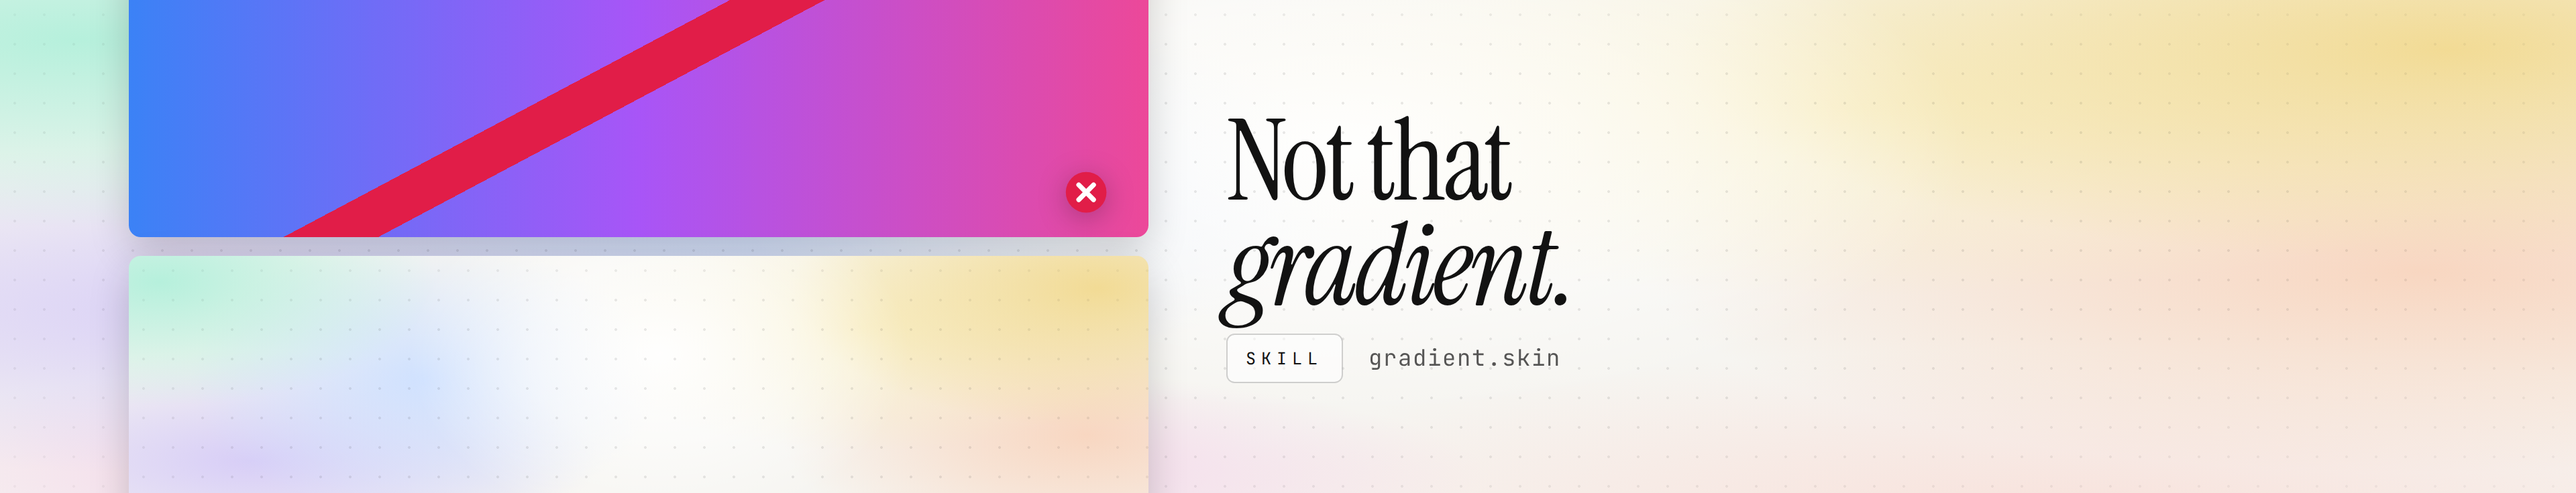
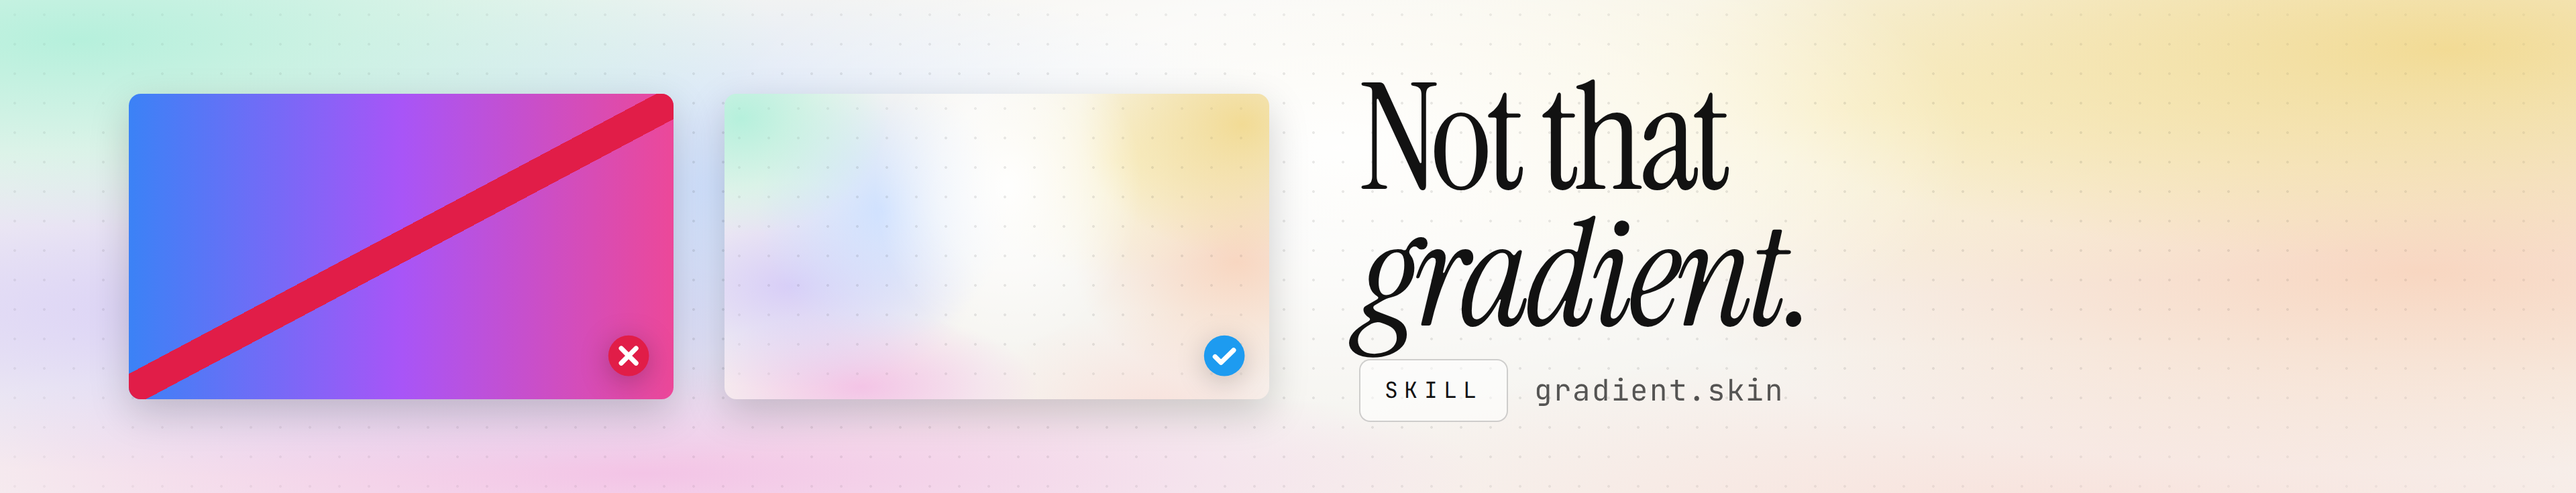
Article cover sized for the X editor crop (1920x768)
Claude-Session: https://claude.ai/code/session_01Pj2DqLmp4zxdSxdQUmTHv8

diff --git a/launch/article.md b/launch/article.md
@@ -1,6 +1,6 @@
 # X Article — paste-ready
 
-**Cover:** `images/article-thumb.png` (crossed-out swatch vs ours). In-article banner: `images/article-banner.png`.
+**Cover:** upload `images/article-cover-x.png` (1920×768, sized for the article editor crop). Timeline card: `images/article-thumb.png`. Wide banner fallback: `images/article-banner.png`.
 **Post text that carries the article** (pick one, the article card sits under it):
 
 > A · 111,000 people laughed at a screenshot of a gradient last month. they all recognised it.
